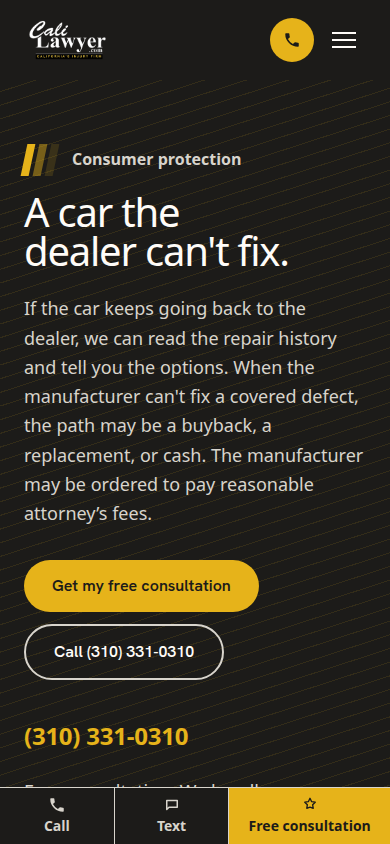
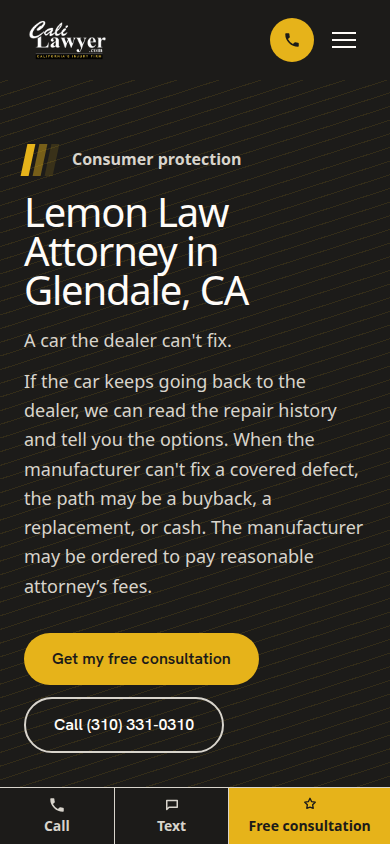
Set the lemon law H1 to the Glendale attorney title.
The heading matches the fact-checked line, and "A car the dealer can't fix." sits on the line under it. The page title stays "Lemon Law Lawyer in Glendale, CA".

Changed region(s): [[0.0615, 0.2156, 0.9231, 0.8934]]

diff --git a/src/components/PracticeArea.tsx b/src/components/PracticeArea.tsx
@@ -88,7 +88,10 @@ export function PracticeArea({
               <span className="eyebrow text-bone">{c.hero.eyebrow}</span>
             </div>
             <h1 className="h-hero mt-4 text-white">{c.hero.headline}</h1>
-            <p className="mt-6 max-w-xl text-lg leading-relaxed text-bone">
+            {c.hero.lead ? (
+              <p className="mt-4 max-w-xl text-lg leading-relaxed text-bone">{c.hero.lead}</p>
+            ) : null}
+            <p className={`${c.hero.lead ? "mt-3" : "mt-6"} max-w-xl text-lg leading-relaxed text-bone`}>
               {c.hero.sub}
             </p>
             <div className="mt-8 flex flex-wrap gap-3">

diff --git a/src/lib/content/lemon-law.ts b/src/lib/content/lemon-law.ts
@@ -9,7 +9,8 @@ export const lemonLawContent: PracticeAreaContent = {
 
   hero: {
     eyebrow: "Consumer protection",
-    headline: "A car the dealer can't fix.",
+    headline: "Lemon Law Attorney in Glendale, CA",
+    lead: "A car the dealer can't fix.",
     sub: "If the car keeps going back to the dealer, we can read the repair history and tell you the options. When the manufacturer can't fix a covered defect, the path may be a buyback, a replacement, or cash. The manufacturer may be ordered to pay reasonable attorney’s fees.",
     stats: [],
   },

diff --git a/src/app/lemon-law/what-qualifies/page.tsx b/src/app/lemon-law/what-qualifies/page.tsx
@@ -21,6 +21,7 @@ const whatQualifiesContent: PracticeAreaContent = {
     ...lemonLawContent.hero,
     eyebrow: "What Qualifies",
     headline: "Does your vehicle actually qualify as a lemon?",
+    lead: undefined,
     sub: "There's no single repair count. It comes down to the repair history and the warranty.",
   },
   directAnswer:

diff --git a/src/lib/content/types.ts b/src/lib/content/types.ts
@@ -14,6 +14,8 @@ export interface PracticeAreaContent {
   hero: {
     eyebrow: string;
     headline: string;
+    /** One sentence directly under the h1, before the supporting paragraph. */
+    lead?: string;
     sub: string;
     /** Stat counters shown in the hero. Placeholders stay bracketed. */
     stats: {
